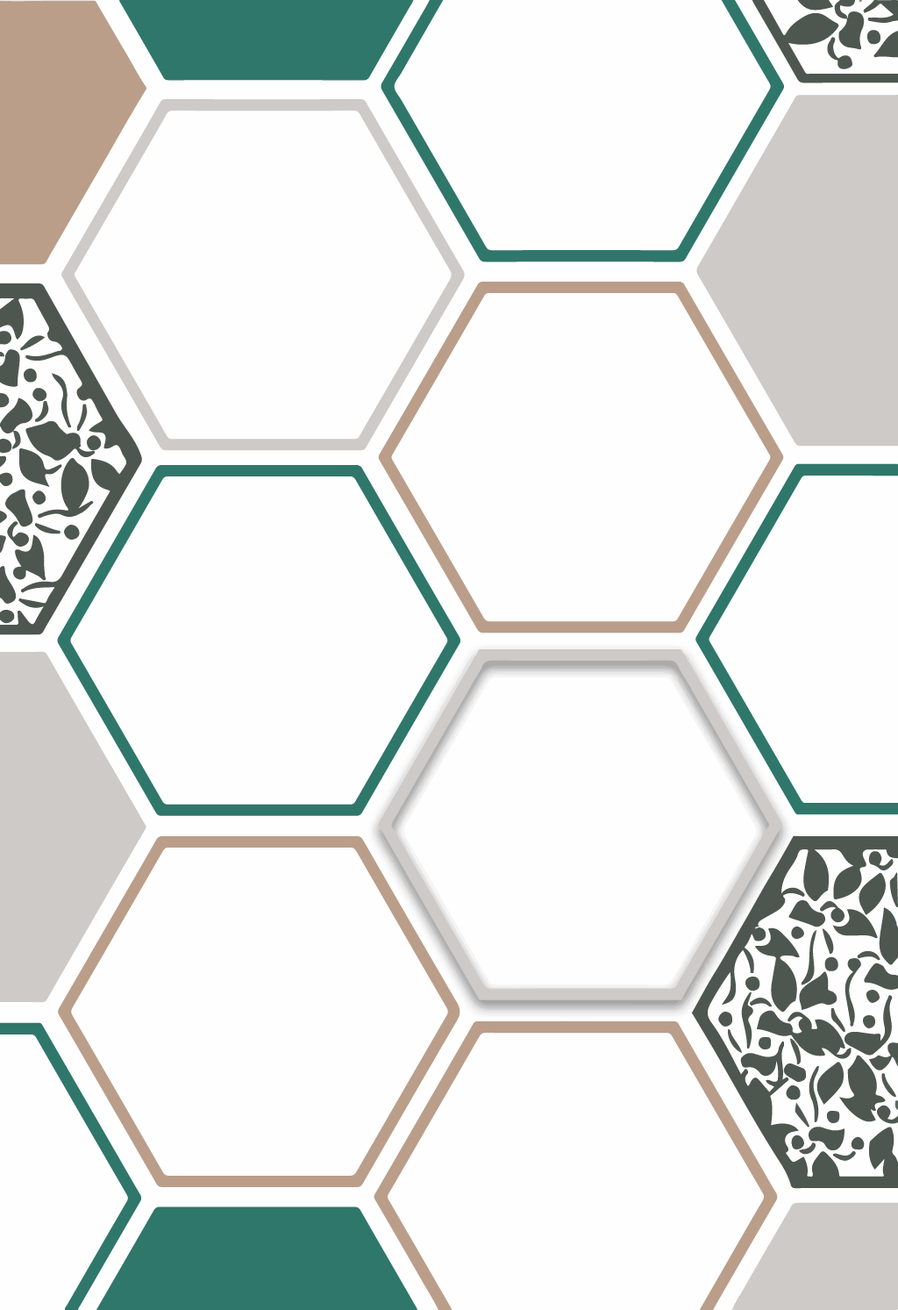
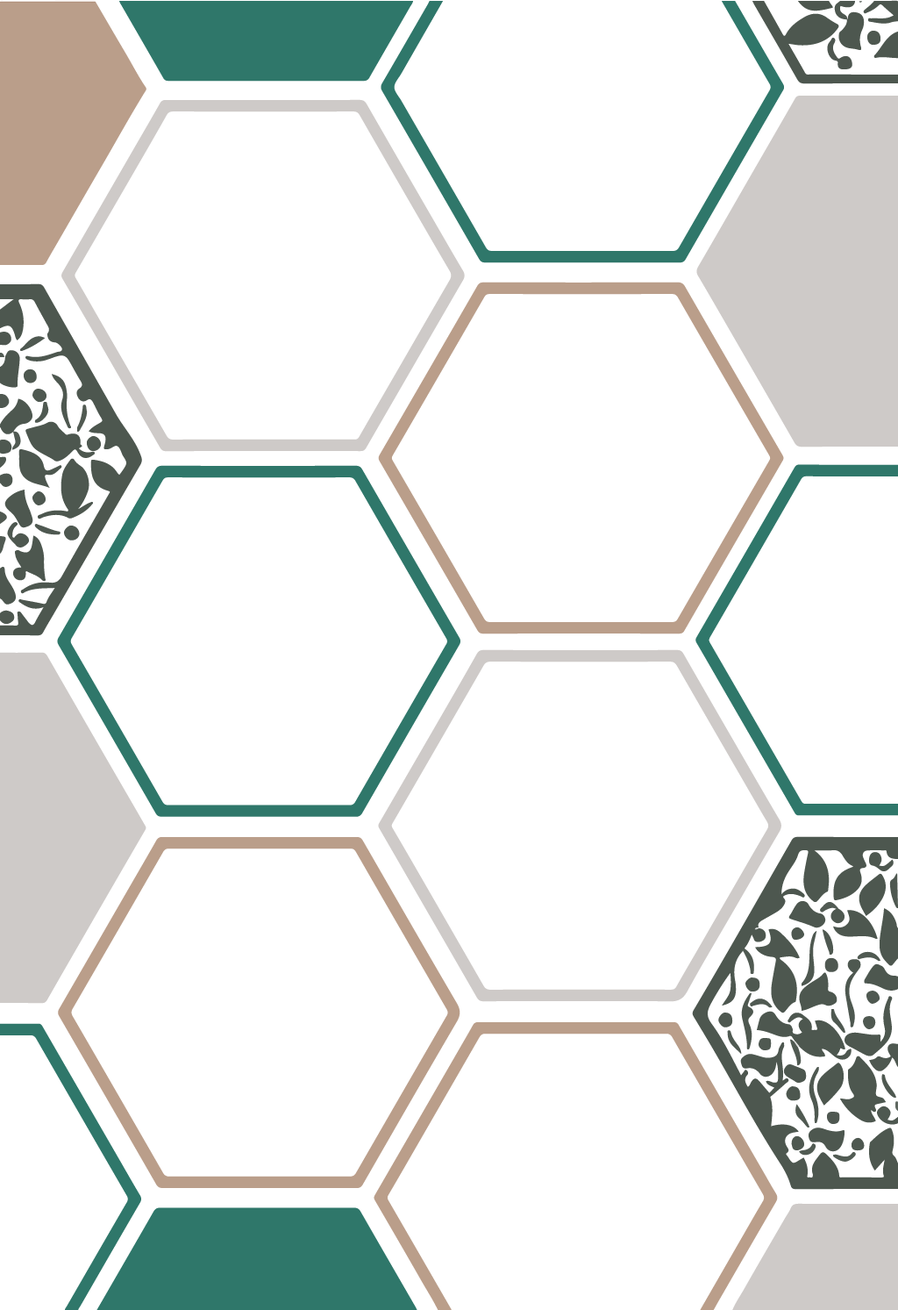
TEst

diff --git a/Assignment_13/gallery.html b/Assignment_13/gallery.html
@@ -47,7 +47,7 @@
 </div>
 
 <div class="background">
-<img src="<svg xmlns="http://www.w3.org/2000/svg" viewBox="0 0 1024.08 1493.33"><defs><style>.a{fill:#cecac8;}.b{fill:#ba9e8a;}.c{fill:#2f776a;}.d{fill:#4d574f;}.e{fill:#4e5850;}.f{fill:#4e5750;}.g{fill:#4f5851;}.h{fill:#b2927d;}.i{fill:#eae1db;}.j{fill:#515a53;}.k{fill:#505951;}.l{fill:#4f5951;}.m{fill:#f9faf9;}.n{fill:#5e6760;}.o{fill:#515b53;}.p{fill:#909691;}.q{fill:#d8dad8;}.r{fill:#b4b8b5;}.s{fill:#6c746d;}.t{fill:#838a84;}.u{fill:#505a52;}.v{fill:#525b54;}.w{fill:#dadbda;}.x{fill:#d7d9d8;}.y{fill:#515a52;}</style></defs><path class="a" d="M1024,509c-36.49,0-73-.08-109.47.06-4.17,0-6.5-1.22-8.65-5q-40.7-71-81.74-141.73c-9.24-16-18.46-32-27.88-47.84-2.3-3.89-2.21-6.83.17-10.89C816,270.19,835.2,236.55,854.55,203c17.44-30.25,35-60.46,52.32-90.76,1.78-3.11,4.25-3.17,7.16-3.17q52,0,104,0c2,0,4,0,6-.07Z" transform="translate(0 -0.75)"/><path class="a" d="M0,744c15.83,0,31.66.07,47.49-.15,3.2,0,4.87,1.29,6.3,3.77Q80.64,794.33,107.55,841q24.81,43,49.75,85.92c2.75,4.75,5.42,9.54,8.24,14.25a4,4,0,0,1,0,4.6Q143.2,984.15,121,1022.59q-23.47,40.59-46.87,81.24-10.33,17.94-20.57,35.94c-1.37,2.4-3.14,3.35-6,3.32-15.83-.15-31.66-.08-47.49-.09Z" transform="translate(0 -0.75)"/><path class="b" d="M108.89,2.25c11.28,19.31,22.49,38.67,33.89,57.91,7.77,13.13,14.68,26.76,23.27,39.4a2.67,2.67,0,0,1,.1,3.49c-17.75,28.63-34,58.16-50.91,87.25-16.48,28.27-32.76,56.64-49.11,85C61.64,283,57,290.73,52.8,298.63c-1.41,2.65-3.07,3.36-5.86,3.35-15.65-.08-31.29,0-46.94,0V3Q51.55,3,103.11,3C105,3,107.1,3.62,108.89,2.25Z" transform="translate(0 -0.75)"/><path class="c" d="M110,1494q32.59-56.41,65.11-112.87c1.89-3.3,3.87-4.55,7.75-4.54q110.24.21,220.48,0c3.78,0,5.87,1,7.81,4.41q31,54.17,62.31,108.14c.91,1.58,1.7,3.23,2.54,4.84Z" transform="translate(0 -0.75)"/><path class="c" d="M471,1c-.57,2.67-2.34,4.74-3.65,7-15.36,26.68-30.83,53.3-46.07,80-1.74,3-3.6,4-7,4q-110.73-.13-221.45,0c-2.79,0-4.82-.23-6.48-3.14C170,60.29,153.48,31.79,137,3.25c-.41-.71-.68-1.5-1-2.25Z" transform="translate(0 -0.75)"/><path class="a" d="M835,1494c3.35-8.73,8.8-16.34,13.37-24.39,15.5-27.3,31.37-54.39,47.11-81.55,2.08-3.6,4.62-7,6.21-10.78,1.9-4.54,5-5.31,9.46-5.29,37.61.12,75.23,0,112.85,0,0,39.5,0,79,.08,118.5,0,3-.6,3.59-3.58,3.58Q927.75,1493.92,835,1494Z" transform="translate(0 -0.75)"/><path class="d" d="M847,1083.08a8.21,8.21,0,0,1-.94,1.73c-8.91,9.75-10.2,21.2-7.77,33.6a47.72,47.72,0,0,1,.71,8.94c.06,10.67-4,15.73-15.61,18.56,3.65-6.18,8.49-10.92,9.49-17.57s.64-13.13,0-20a309.19,309.19,0,0,0-22.58,35.91c-4.34,8.06-5.12,14.15,1.07,22.58,12.5,17,21.8,36.13,31.55,54.88.6,1.16,1.19,2.32,2.11,4.12,1.22-1.6,2.07-2.91,3.11-4,.86-.93,1.22-3.39,3.15-1.92,1.41,1.08,2.42,3.26,1,4.82-4.56,4.92-2.47,9.43.42,14.19,2.32-1.14,2.77-3.58,3.92-5.45,3.13-5.06,5.57-5.33,9.33-.92s7.57,8.85,11.42,13.35l5.9-6.34c-3.72-2-8.16-2.78-9.76-7.17,3.36-1.35,5.84,1.21,8.75,1.53,3.21.36,4.86-.24,5-4,.28-6.5.43-12.91-1.88-20.49-.62,5.93-1.41,10.41-4.75,14-4.25,4.62-10.21,5-14.07.08s-8.55-7.1-14.78-6.07c-2.46.41-4.85-.16-5.65-2.9-.84-2.92-2.52-6,.33-8.85,3.24-3.19,7-5.19,11.7-4.08,3.54.85,7,2,10.53,3a23.55,23.55,0,0,0,8.28,1.05c6.11-.43,10.12-2.36,11-9.09.33-2.51,2.13-4.83,3.32-7.21.37-.73.92-1.47,1.93-1.18s.71,1.35.74,2.09a6.26,6.26,0,0,1-.21,3c-3.64,7.17-2.3,14.68-1.47,22.08.61,5.47,1,10.88-.07,16.41,2.41-.5,4.49-4.4,6.45-1.75,1.69,2.28-1.83,3.8-3.43,5.26-4.92,4.48-10,8.79-15,13.18-.83.72-2.3,1.15-1.82,2.64,3.48,10.78,1.85,21.71.75,32.69,13.92-4.12,25.67-2,31.4,5.9-2.65.49-5.22.78-7.68,1.45-7,1.9-9.68,8.4-6.29,14.83,1.42,2.7,4.71,5.33.07,8.44-1.39.93.72,2.61,1.46,3.76,5.72,9,5.75,9,14.67,3.5,1.13-.7,2.27-1.37,3.58-2.16,3.39,6.31,5.4,12.8,4.2,19.91-.32,1.89-.24,3,1.91,2.59,1.6-.33,4.35,1.56,4.5-2a5.75,5.75,0,0,0-.06-2c-3.08-9,2.81-15,7.46-21.29,3.27-4.39,4.72-4.11,8.53-.36,6.86,6.74,13.27,13.7,14,24,.15,2.1,1.62,1.72,2.87,1.72h45.48c1.55,0,3.37.06,2.59-2.25-2-5.88.09-11.49,1.11-18.53l-11.33,12.58c-6.7-9.64-7.51-19.93-5.65-30.71a3.25,3.25,0,0,1,.87-1.73c6.25-5.73,12.21-11.83,20.19-15.3,2.16-.94,3-.6,3.92,1.68,3,7.63,2.82,15.33.87,23.06-.67,2.66-.69,4.67,1.54,6.66,2.52,2.23,3.12,5.67,4.65,8.54v29c-38.83,0-77.66,0-116.49.09-3.43,0-4.8-.92-5.79-4.28a96.59,96.59,0,0,0-12.05-25.12c-26.2-40.38-49-82.71-73.1-124.34-8.25-14.26-16.76-28.37-25.3-42.46-1.62-2.67-2-4.6-.23-7.55,37.89-64,74.51-128.76,111.57-193.25,1.87-3.24,3.82-4.19,7.4-4.17,38,.13,76,.08,114,.08v25c-5.92-.38-12-.56-12.9-8.51-.25-2.09-1.9-1.45-3.08-1.46q-8.74-.09-17.49,0c-5.8,0-8.27,3.81-6,9.11.65,1.53,1.27,3.08,2,4.55,1.89,3.62,2.16,6.11-3.14,6.54-2.73.22-3.54,2.12-2.45,5.12,3.3,9.14,1.26,16-6.22,22.16-6.06,5-13.16,7.63-20.76,9.24-2.61.55-3-.54-3.18-2.8-1-15.69,1.72-27.87,20.41-34.28a18,18,0,0,0,2.32-1.36c-6.64-2.22-9.63-7.46-12.78-12.57-2.4-3.91-5.44-6.22-10.6-5.85-7.08.51-14.22.13-22.15.13,15.93,11.36,18.7,26.82,16.34,44.07-.14,1.1.14,2.55-1.15,3.11-5,2.17-7.65,6.82-11.17,10.52-1.73,1.82-2.9,1.57-4.8.07-11.3-8.88-12-20.79-9.79-33.52,1.19-6.89,2.51-13.75,4-20.57.62-2.77.3-3.66-2.84-3.8-4.42-.2-7.23.37-8.76,5.43-2.08,6.87-6.72,12.58-10.58,18.6-5.12,8-8.43,16.57-8.24,26.84a16.25,16.25,0,0,1,11.47-6.86c5.09-.68,9,1.79,12.63,4.78,1.21,1,3,2.56,2.13,4-1.17,2.14-2.9.06-4.26-.44-5.71-2.09-11.41-3.8-17.43-1.21-1.91.82-3.91,1.44-1.5,4.08,2.18,2.38,1.09,5-.33,7.38-2.29,3.84-5.78,6.41-9.55,8.6-4.88,2.85-9.85,5.55-14.75,8.38-3.28,1.9-6.21,4.06-4.42,8.6-1.63,0-3.26-.1-4.17,2.09,1.73.23,2.9-.65,4.15-1.23,6,.81,8.71,4.22,7.93,9.87-.43,3.14-4.77,5.78-8.85,5.56-2.27-.11-3.66-1-4.36-3.23a45.52,45.52,0,0,0-2.49-5.33c-2.39,5.71-4.31,11-8.11,15.2C847.85,1080.65,847.56,1082,847,1083.08Z" transform="translate(0 -0.75)"/><path class="b" d="M798,1494l50.81-88.27c7-12.12,13.86-24.3,21.07-36.27,2-3.35,1.73-5.83-.13-9q-38-65.42-75.75-131c-9.08-15.71-18.22-31.39-27.18-47.16-1.65-2.91-3.44-4.26-7-4.26q-103.2.18-206.41,0c-3.94,0-5.57,1.84-7.23,4.72q-37.74,65.57-75.57,131.07c-9.24,16-18.43,32-27.81,47.94-1.5,2.55-1.26,4.33.15,6.75q35.69,61.56,71.19,123.22A13.66,13.66,0,0,1,515,1494H500c-5.66-11.87-12.81-22.91-19.33-34.31-17.51-30.64-35.26-61.14-53-91.65-1.24-2.12-1.38-3.69-.11-5.89q50.19-86.65,100.23-173.38c3.83-6.64,7.69-13.25,11.39-20,1.42-2.58,3.07-3.77,6.23-3.77q111.23.15,222.45,0c2.81,0,4.5.75,6,3.3q48,83.31,96.11,166.54c4.83,8.36,9.49,16.82,14.56,25,2.18,3.52,2.3,6.23.15,9.93q-32.58,55.86-64.8,112c-2.33,4-4.57,8.12-6.85,12.18Z" transform="translate(0 -0.75)"/><path class="c" d="M505,1q-23.73,41.33-47.45,82.66c-3,5.18-8,10.46-8,15.68s5.1,10.49,8.08,15.66q48.15,83.45,96.25,166.92c1.84,3.21,3.78,4.21,7.38,4.2q103-.17,205.95,0c3.67,0,5.54-1.23,7.32-4.34q51.27-89.13,102.83-178.11c1.78-3.08,2.06-5.26.18-8.48C859.22,63.86,841.14,32.41,823,1h15q27.36,47.33,54.76,94.63c1.49,2.57,1.66,4.48.1,7.19q-55.68,96.12-111.08,192.39c-1.75,3-3.7,3.9-7.06,3.9q-110.47-.15-221,0c-3.6,0-5.59-1-7.43-4.2q-55-95.63-110.34-191.09c-1.91-3.31-2-5.64-.05-9,17.29-29.61,34.37-59.33,51.5-89,.91-1.58,1.71-3.22,2.56-4.83Z" transform="translate(0 -0.75)"/><path class="d" d="M0,713c5.83,0,11.67-.15,17.5.06,2.95.11,3.78-.9,3.4-3.7a79,79,0,0,1-.71-9c0-1.12-1-2.81,1-3.33,1.56-.4,2.38.76,3.2,1.86,2,2.67,4,5.3,6,7.93a29.84,29.84,0,0,0,2.79,3.49c2.77,2.66,5,3.07,7-1.13,2.82-5.74,6.23-11.18,9.87-17.58-10.15,4-18.32,1.06-25.95-4.33-1.13-.79-3.18-1.58-2.6-3.22.72-2,2.58-.6,3.91-.36,7.69,1.41,15.4,2.74,23,4.39,2.48.53,3.77.53,4.8-2.24,2.07-5.59,6-10.21,9.43-16-12,.66-23.45-.29-34.25,4.7-1.15.53-3.15,2.65-4.23.41s1.58-2.8,3-3.78c9-6.28,19-8.43,29.85-7.14,6.46.76,10.36-1.59,13.76-7.67,17.92-32.06,36.44-63.79,54.72-95.57-.39-1.31-1.51-1.4-2.34-1.63-18.7-5.19-19.54-19.84-19.22-33.31,0-2.05,1.29-2,2.68-1.85,10.49,1.44,20.15,4.48,26.44,13.93a16,16,0,0,0,1.5,2,17.42,17.42,0,0,0,1.61,1.39c1.34-1.85,2.69-3.6,3.92-5.42,5.28-7.75,5.29-8.71.31-16.4-.09-.14-.2-.27-.28-.42-1.91-3.68-2.94-8.74-6-10.68-3.18-2-7,2.79-11.06,3.29-4.71.57-5.17.23-3.83-4.46A27.82,27.82,0,0,0,120.5,501c.14-4.12-1.24-6.87-6.16-7.27-4.21-.34-8.66.08-13-2.22,2.95-3.73,6.74-6,10.58-8.21,6.09-3.5,5.83-3.36,2.31-9.14-2.92-4.81-5.09-10.07-7.77-15-1.69-3.12-3.3-5.94-7.89-2.88-3.51,2.34-7.26.71-9.31-3-1.93-3.48-2.88-7.56,1.11-10.21,4.26-2.84,3.84-5.4,1.42-9.29-4.57-7.32-8.46-15.05-12.86-22.47-3.58-6-7-7.23-13.87-5.34s-13,5.29-20.09,5.73c-4.56.28-9,0-13.23-1.78-1.22-.52-2.73-1.24-2.51-2.75.28-2,2.25-1.3,3.26-1.07,11.49,2.67,22-1.15,32.54-4.75,2.12-.72,5.5,0,5.76-3.21.24-3-5.14-7.82-8-8-5.07-.29-8-3-8.6-7.94-.08-.66-.3-1.56,0-1.95,4-4.87.43-8.68-1.72-12.66-4.11-7.6-8.42-15.11-12.36-22.8-1.5-2.94-3.26-4.22-6.58-3.84a43,43,0,0,1-8.49,0c-4.38-.37-4.75,1.22-3.08,4.84A49.7,49.7,0,0,1,26,376c-.8,4.5-2.43,8.61-6.27,11.64-1.76-1.67-2-3.84-2.62-5.81-3.32-11.44-6.65-13-17.09-7.82V353l15.81-12H0V324c14.49,0,29,.13,43.47-.09,3.53-.06,5.23,1.2,6.91,4.16Q91,399.89,131.89,471.59c5.1,9,11.38,17.19,17.09,25.78a100.3,100.3,0,0,1,12,23.45,9.83,9.83,0,0,1-1.05,8.87q-49.35,84.72-98.55,169.54c-4,6.9-8.19,13.71-12,20.74-1.62,3-3.46,4.18-7,4.12C28.32,723.87,14.16,724,0,724Z" transform="translate(0 -0.75)"/><path class="c" d="M1024,543q-30-.12-59.94-.23c-14.83,0-29.65.08-44.48-.08-3.06,0-4.73.93-6.26,3.59q-51.78,90-103.78,179.79a5.8,5.8,0,0,0,0,6.74q52,89.84,103.83,179.76c1.18,2,2.19,3.65,5.19,3.64C953.71,916,988.86,916,1024,916v13c-37.64,0-75.29,0-112.93.2-3.29,0-4.19-1.93-5.44-4.1Q866.35,857,827,789c-10.81-18.73-21.56-37.49-32.48-56.16a5.77,5.77,0,0,1,0-6.74q55.76-96.32,111.33-192.73c1.22-2.11,2.28-3.66,5.22-3.65q56,.18,111.94.12a4.85,4.85,0,0,1,1,.19Z" transform="translate(0 -0.75)"/><path class="c" d="M74,1494c-.27-2.23,1.39-3.67,2.34-5.32q34-59,68.16-117.93c1.83-3.13,1.84-5.31,0-8.46q-51.69-89.13-103-178.44c-1.73-3-3.56-4.13-7-4-11.49.25-23,.16-34.47.2v-13c14.49,0,29,0,43.47-.22,3.34-.07,4.21,1.94,5.43,4.07q43,74.55,86.08,149.1c8.16,14.12,16.2,28.31,24.54,42.31,1.85,3.12,1.85,5.31,0,8.46q-34.25,58.89-68.18,118c-.95,1.66-2.6,3.1-2.35,5.33Z" transform="translate(0 -0.75)"/><path class="d" d="M871,1c7.1,12.58,14.28,25.12,21.23,37.78,1.68,3,2.84,2.76,4.26.14,4.76-8.85,12.44-14.5,20.91-19.34s16.88-5.46,25.24.49a95.59,95.59,0,0,0,11.42,7.13c3.08,1.6,2.5,3.16.93,5.31C944.4,47.05,929.58,52.12,912.3,51.45c-4.25-.17-8.48-1.1-13.44-1.78,6.62,11.57,12.93,22.45,19.07,33.42,1.45,2.57,3.63,1.89,5.66,1.89q50.2,0,100.41,0V95c-35.47,0-71-.09-106.42.12-4.41,0-6.45-1.37-8.62-5.21-16-28.28-32.42-56.36-48.68-84.51C859.45,4,858.76,2.47,858,1Z" transform="translate(0 -0.75)"/><path class="d" d="M1024,1092c-.77.87-1.55,1.73-2.31,2.61-6.09,7.05-4.75,8.73-12.76-.43-6.25-7.15-6.48-16.08-5.48-25,1.24-11.2,3.91-22.18,4.69-33.83,7.76,3.37,11.54,9.48,13.87,16.85.61,2,.21,4.28,2,5.84Z" transform="translate(0 -0.75)"/><path class="d" d="M0,484c3.36-6.57,8.36-11.73,13.89-16.53a22.05,22.05,0,0,0,7-12.88c8.87,1.89,15.39,11.82,16,19.1.31,3.79-3.75,8.65-9.49,9.19C21,483.49,17.87,487.29,15,492l.09-.08c-5.4,4.46-9.92,3.54-13.5-2.69-.45-.79-.36-2-1.59-2.27Z" transform="translate(0 -0.75)"/><path class="d" d="M5.8,407c3.16-7.46,4.55-8.51,9.67-7.31a9.12,9.12,0,0,1,6.9,9.57C22,419.21,19.62,429,19.92,439A1.66,1.66,0,0,1,18.85,441C14.9,442.61,3.11,439.57,0,436V418C4.27,415.56,5.5,411.52,5.8,407Z" transform="translate(0 -0.75)"/><path class="d" d="M1024,1127c-5.67,2.82-11.16,2.09-16.75-.48-6.15-2.84-12.21-5.87-19.37-5.79-3.35,0-2.25-3.61-1.49-4.85,3.21-5.22,5.9-10.82,10.14-15.34,3-3.14,5.84-.81,8.6.38,1.88.82,2.94,2.65,3.89,4.42,2.28,4.29,5.48,7,10.68,6.74,1.42-.07,2.87.59,4.3.92Z" transform="translate(0 -0.75)"/><path class="d" d="M1024,24c-2.6.42-5.33.47-7.79,1.32-7.78,2.68-15.39.64-23-.53-1.26-.2-3.36-.19-3.11-2.39.27-2.36,2.3-1.27,3.54-1.36,7.54-.53,15.29,1.3,22.58-2l3.14-1.48c-4.63-4.05-9.08-7.75-13.28-11.72-2-1.9-3.15-.73-4.52.53a38.91,38.91,0,0,1-12.19,7.59c-1.26.5-3,2-4,.47-1.19-1.71.45-2.94,1.79-4,3.54-2.87,7.14-5.69,9.9-9.38,8.09,0,16.17.1,24.26-.07,2.28,0,2.89.37,2.82,2.78C1023.86,10.46,1024,17.23,1024,24Z" transform="translate(0 -0.75)"/><path class="d" d="M1024,66c-8.28.21-16.53-2.06-24.83-.28-2.58.56-2.8-1.56-1.89-2.52C1006.05,54,1010.47,40.5,1024,36Z" transform="translate(0 -0.75)"/><path class="d" d="M0,648c3.4-2.87,5.09-2.81,5.39,2.36.3,5,2.62,9.53,5.37,13.75a56.13,56.13,0,0,1,6.15,11.32c2.46,6.72.35,10.72-6.46,12.92-2.19.7-3.63.44-5.25-1.29S2.49,682.89,0,682Z" transform="translate(0 -0.75)"/><path class="d" d="M945,1a44.72,44.72,0,0,0,2.4,3.78c.91,1.18,2,2.21,2.14,3.82C930,13.72,920,14.63,910,1Z" transform="translate(0 -0.75)"/><path class="e" d="M1024,1280c-8.23,3.9-19.42-.7-23.18-9.18-2.1-4.75,1.36-7.21,4-9,2.44-1.66,6.08-.85,8.38,1.87,3.26,3.85,3.05,5.52-1.33,12.51,5.87,1.61,6.4,1.47,12.16-3.21Z" transform="translate(0 -0.75)"/><path class="e" d="M965.93,22.08c-9-.21-13.88-4.89-14-12.8C951.84,4.63,955.77,3.59,958,1h17c-.88,7-6.94,9-16.64,5.54-1.27,4.1-.51,7.29,3.56,9.51,2.29,1.24,4.58,2.84,3.91,6.14Z" transform="translate(0 -0.75)"/><path class="e" d="M1024,1035c-1.87-.12-2.31-1.69-2.94-3a61.1,61.1,0,0,1-6-23.9c-.12-2.45.1-4.39,2.6-5.78,2.22-1.24,3-3.81,4.32-6s.83.3,1.22.59v9l0,8c0,3.32,0,6.65,0,10,.15,2.38-1,4.93.89,7.1Z" transform="translate(0 -0.75)"/><path class="e" d="M0,699c2.76-2.41,5.83-3.8,9.54-2.63,3.09,1,5.84,2.27,6.44,6.09.54,3.42-1.28,5.27-3.78,6.88-3.06,2-6.19,2.37-9.31.21A31.56,31.56,0,0,1,0,707Z" transform="translate(0 -0.75)"/><path class="e" d="M1024,1216c-2.76-3.34-2.79-8.4-6.84-10.93l-1.19-1.13a51.36,51.36,0,0,1-3-5.57c-2.17-5.65,1.2-9.77,7.11-8.86,1.29.2,2.59.33,3.89.49Z" transform="translate(0 -0.75)"/><path class="e" d="M0,502a6.92,6.92,0,0,1,5.29-.8c5.17.89,8.44,4.89,7.64,9.92-.75,4.77-4.84,5.26-8.64,5.83A6.16,6.16,0,0,1,0,516Z" transform="translate(0 -0.75)"/><path class="e" d="M0,542c8-4.55,13.63-1.72,14.11,4.08.31,3.66-.83,6.33-4.4,8s-6,.58-8.11-2.27C1.12,551.13.54,550.59,0,550Z" transform="translate(0 -0.75)"/><path class="f" d="M0,379c5.57-1.92,10.16-.39,12.05,4.08,1.71,4.05.14,7-3.35,9.16-2.74,1.7-5.8.47-8.7.76Z" transform="translate(0 -0.75)"/><path class="g" d="M0,449c2.86.09,5.64.48,7.64,2.81s3.3,5.4,1.92,8.22c-1.81,3.7-5.5,5-9.56,5Z" transform="translate(0 -0.75)"/><path class="h" d="M108.89,2.25C107.1,3.62,105,3,103.11,3Q51.55,3,0,3V2C11.29,2,22.58,2,33.87,2l74.2-.2A2,2,0,0,1,108.89,2.25Z" transform="translate(0 -0.75)"/><path class="i" d="M108.07,1.8,33.87,2C22.58,2,11.29,2,0,2c.9-2.07,2.7-.94,4-.94Q56,.94,108,1C108,1.27,108.05,1.53,108.07,1.8Z" transform="translate(0 -0.75)"/><path class="j" d="M0,611c7.36.9,7.53,1,5,8-1.49,4.07-1.63,8.73-5,12Z" transform="translate(0 -0.75)"/><path class="k" d="M0,583a27.86,27.86,0,0,1,4,1.86c4.71,3.16,4.79,5.64.39,8.94C3,594.89,1.48,595.94,0,597Z" transform="translate(0 -0.75)"/><path class="l" d="M0,521c2.27.48,5.71-1.4,6.63,1.15s-1,5.43-2.91,7.6A34.09,34.09,0,0,1,0,533Z" transform="translate(0 -0.75)"/><path class="m" d="M5.8,407c-.3,4.53-1.53,8.57-5.8,11V407l4.84-.06Z" transform="translate(0 -0.75)"/><path class="n" d="M1024,1266c-3.5-2.25-3.07-5.79-2.79-9.12.14-1.68,1.45-1.86,2.79-.88Z" transform="translate(0 -0.75)"/><path class="o" d="M4.84,406.94,0,407v-5C3.24,402.06,4.21,404.33,4.84,406.94Z" transform="translate(0 -0.75)"/><path class="p" d="M1023.11,1023.9c0-3.32,0-6.65,0-10l.87.07v10Z" transform="translate(0 -0.75)"/><path class="q" d="M1023.16,1006v-9a3.94,3.94,0,0,1,.84,0v9A3.39,3.39,0,0,0,1023.16,1006Z" transform="translate(0 -0.75)"/><path class="r" d="M1023.16,1006a3.39,3.39,0,0,1,.84,0v8l-.87-.07Z" transform="translate(0 -0.75)"/><path class="s" d="M1023.11,1023.9l.89.1v7C1022.15,1028.83,1023.26,1026.28,1023.11,1023.9Z" transform="translate(0 -0.75)"/><path class="t" d="M983,1c-.61.62-.69,1.91-1.9,1.78-1-.1-1.09-1-1.1-1.78Z" transform="translate(0 -0.75)"/><path class="b" d="M662.29,722c-37,0-74,0-111,.08-3.48,0-5.25-1.15-7-4.11Q488.82,621.71,433,525.62c-1.54-2.65-1.6-4.49,0-7.18q55.8-96.09,111.33-192.35c1.87-3.24,3.88-4.17,7.45-4.17q110.47.16,221,0c4.25,0,6.36,1.34,8.47,5Q836.53,423,892.25,518.81c1.35,2.32,1.41,4,0,6.32q-56.16,96.75-112.09,193.65c-1.66,2.88-3.61,3.26-6.44,3.26Q718,722,662.29,722Zm.42-387c-34.66,0-69.31,0-104-.07-3.19,0-5,.83-6.7,3.73q-52,90.2-104.32,180.22c-1.37,2.35-1.29,4,0,6.32Q499.93,615,551.85,705c1.74,3,3.54,4.1,7,4.09q103.71-.14,207.42,0c3.19,0,5-.83,6.71-3.73q52-90.2,104.32-180.22c1.36-2.35,1.29-4,0-6.32Q825.09,429,773.17,339c-1.9-3.3-4-4.09-7.5-4.08C731.35,335.05,697,335,662.71,335Z" transform="translate(0 -0.75)"/><path class="a" d="M661.48,1141c-36.66,0-73.32-.07-110,.11-3.93,0-6-1.39-7.81-4.62q-33.08-57.51-66.34-114.92-22.47-38.88-44.91-77.76a4.8,4.8,0,0,1,0-5.49q37.71-64.92,75.31-129.91,18.1-31.3,36-62.78c1.83-3.23,3.85-4.64,7.79-4.63q110.24.19,220.46,0c3.63,0,5.55,1.14,7.38,4.34q29.48,51.53,59.31,102.86c16.57,28.64,33.06,57.34,49.88,85.83,3,5.08,3,8.9,0,14-17.21,29.23-34.07,58.68-51.06,88-18,31.08-36.48,61.9-53.7,93.4-5.08,9.3-10.68,12-20.81,11.78C729.15,1140.54,695.31,1141,661.48,1141Zm.37-13c34.33,0,68.66,0,103,.07,3.18,0,5-.76,6.7-3.72,7-12.49,14.26-24.8,21.41-37.19q23.56-40.83,47.12-81.67c11.48-19.87,22.91-39.78,34.57-59.54,2.15-3.66,2-6.5-.15-10-6.1-10.1-11.92-20.38-17.83-30.6q-42.35-73.2-84.58-146.46c-2-3.5-4.15-4.87-8.21-4.86q-102.24.18-204.48,0c-4.14,0-6.37,1.47-8.27,4.8C542.48,773.91,533.71,789,525,804.13q-38.69,67-77.41,133.9a5.12,5.12,0,0,0,0,5.92q13.9,23.65,27.59,47.44,38,65.89,76,131.85c1.9,3.3,4.09,4.86,8.25,4.83C593.52,1127.86,627.68,1128,661.85,1128Z" transform="translate(0 -0.75)"/><path class="a" d="M300,114.05c36.49,0,73,.06,109.47-.08,4.14,0,6.51,1.18,8.66,4.93q40.69,71,81.74,141.73c9.24,16,18.45,32,27.88,47.83,2.33,3.9,2.35,7.05,0,11Q494.29,377,461.08,434.75q-21.84,37.78-43.67,75.58A6.45,6.45,0,0,1,411,514q-111-.09-221.94,0c-3.48,0-5.1-1.6-6.58-4.17q-15-25.92-30-51.82-21.56-37.4-43-74.8-19.09-33-38.36-66c-1.46-2.51-1.13-4.58.25-7q40.85-70.59,81.6-141.23c9.9-17.13,19.88-34.21,29.62-51.44,1.83-3.24,4.21-3.64,7.4-3.63Q245,114.1,300,114.05ZM299.78,501q51.75,0,103.49,0c2.54,0,4.64,0,6.24-2.82,14.53-25.41,29.25-50.71,43.89-76,19.72-34.12,39.37-68.29,59.22-102.34,2.38-4.09,2.48-7.33,0-11.44-13.09-22.2-26-44.53-38.87-66.84Q442,186.42,410.28,131.25c-1.85-3.24-3.82-4.28-7.41-4.27q-102.74.13-205.47,0c-3.62,0-5.75,1.06-7.53,4.22q-13.83,24.57-28,48.94-37.73,65.2-75.55,130.35c-1.24,2.15-1.6,4-.16,6.43C95,332,103.52,347.22,112.25,362.35Q151,429.54,189.84,496.7c1.77,3.07,3.77,4.36,7.46,4.34C231.46,500.89,265.62,501,299.78,501Z" transform="translate(0 -0.75)"/><path class="c" d="M295,930.6c-36.65,0-73.31,0-110,.08-3.55,0-5.63-.86-7.5-4.11Q122.4,830.72,66.94,735.06c-1.83-3.17-1.78-5.4,0-8.53q55.29-95.46,110.31-191.09c1.9-3.31,3.9-4.51,7.77-4.5q110.22.19,220.44,0c3.92,0,5.82,1.3,7.69,4.55q55,95.63,110.34,191.08c1.82,3.14,1.86,5.32,0,8.47q-55.32,95.46-110.33,191.08c-1.89,3.28-3.84,4.61-7.75,4.59C368.64,930.53,331.82,930.6,295,930.6ZM295.24,544c-34.49,0-69,.05-103.46-.09-3.32,0-5,1.07-6.6,3.84q-51.54,89.55-103.3,179c-1.71,3-1.79,5,0,8.07q51.81,89.38,103.32,178.95c1.61,2.8,3.34,3.91,6.64,3.9q103.47-.15,206.92,0c3.31,0,5-1.11,6.6-3.92Q457,824,508.92,734.39c1.53-2.64,1.5-4.54,0-7.19q-51.79-89.4-103.33-179c-1.8-3.12-3.69-4.32-7.36-4.31C363.88,544.1,329.56,544,295.24,544Z" transform="translate(0 -0.75)"/><path class="b" d="M296,1353.85c-36.66,0-73.32-.06-110,.08-3.79,0-6-1-7.92-4.44q-55.17-95.9-110.64-191.61c-1.79-3.1-1.44-5.36.23-8.23q39.56-68.28,79-136.65c10.58-18.31,21.24-36.57,31.68-55,1.72-3,3.71-4,7.13-4q110.48.13,221,0c3.7,0,5.6,1.32,7.4,4.43,35.46,61.61,70.86,123.26,106.79,184.6,4.72,8.06,4.74,13.58-.05,21.75-36,61.47-71.47,123.3-107,185.07-1.73,3-3.67,4.08-7.1,4.07C369.65,1353.8,332.82,1353.85,296,1353.85Zm.08-13c34.17,0,68.33-.06,102.5.07,3.57,0,5.68-.91,7.54-4.14q51.57-89.62,103.41-179.08c1.67-2.88,1.43-5-.17-7.76Q457.55,1060.45,406,970.83c-1.65-2.87-3.43-3.82-6.67-3.82q-103.24.15-206.49,0c-3.41,0-5.26,1-7,4.06q-51.3,89.2-103,178.2c-2.06,3.55-1.78,6.1.21,9.53q51.48,88.82,102.64,177.81c1.83,3.19,3.75,4.32,7.39,4.31C227.42,1340.79,261.75,1340.85,296.08,1340.85Z" transform="translate(0 -0.75)"/><path class="d" d="M907,1187c-1.14-1.63-2.31-3.24-3.41-4.89-.92-1.37-1.79-2-3.67-1.34-5.33,1.9-10.51.49-15.58-1.33-6.87-2.47-13.65-5.27-21.23-5.6,1.13-4.36,2.07-8.4,3.23-12.38,1.36-4.66,6.82-8.3,11.56-8.57,3.29-.19,4.91,1.59,6.35,3.89,3.47,5.59,7.71,9.91,14.8,10.58,2.82.26,3.75,2.79,4.65,5.28.65,1.83-1.17,4.51,1.9,5.53a9.09,9.09,0,0,0,9.29-1.6c-5.16-5.79-5.93-11.32.92-15.2-5.15-4.33-9-1-13.14,2-1,.71-2,2.72-3.56,1.46s.18-2.71.76-3.9c3.41-7,9.84-8.69,15.74-4.06,5.18,4.05,11.11,7.55,9.82,15.93-.32,2.06,2.9.86,4.48,1.16,1.83.35,2.47-.82,2-2.36-.73-2.71-1.69-5.35-2.55-8,12.38-4.17,29.4,12.12,34.35,31.85-2.09,1.6-3.52-1.13-5.58-.84a16.09,16.09,0,0,1-4.61,8c5.07.94,9,1.08,11.57-3.63a7.74,7.74,0,0,1,5.26-3.5,10,10,0,0,1-12.61,11.67c-4-1.16-7-3.79-10-6.41s-6.06-5.1-10.64-5.48c-.12,3.5,4.14,5.07,3.36,8.61C928.22,1206,919,1200.61,911,1192Z" transform="translate(0 -0.75)"/><path class="d" d="M861.36,1079.52c18.69-.14,20-6.33,15.16-20.11,5.66-1.56,9.93.38,14.17,4.38,8.54,8.06,16.33,16.54,21,27.65a4.92,4.92,0,0,1-4.74-.08c-5.33-2.47-10.79-1-16.22-.46-2.16.23-2.1,1.3-.88,2.59a27.74,27.74,0,0,0,2.73,2.18c14,11.29,18.19,26,15.09,43.27-.19,1.07-.13,2.62-1.33,3.07-5.38,2-7.91,7-11.5,10.79-1.49,1.6-2.46,1.67-4.34.19-11-8.71-12.18-20.35-10.12-33,1.29-7.87,2.74-15.71,4.24-23.55.68-3.55.51-5.58-4.16-6-6.88-.59-13.31-3-17.86-8.76A15.71,15.71,0,0,1,861.36,1079.52Z" transform="translate(0 -0.75)"/><path class="d" d="M1010,1256c-3.72.85-6.78,1.59-9.86,2.23-2.31.49-3.43,1.3-2.44,4,.48,1.33,2,3.34.43,4.5-1.83,1.34-3.12-1.16-5.09-1.83.13,5.1,4.37,8.27,5.33,12.69-6.37,3-12.36,1.61-18-1.89A64.68,64.68,0,0,1,958,1252.08c4.46,0,8.27,1.89,12.23.17,3.42-1.48,5.22-2.3,2.21-6.5-5.35-7.5-5.46-16.56-5.4-25.44a2.31,2.31,0,0,1,.84-1.67c4.65-3,6.86-7.55,8.44-12.57.75-2.4,2.6-3,4.11-1.38,7.92,8.28,16.52,16.17,18.66,28.28.09.49.12,1,.23,1.48.93,4.37-1.12,8.77-.56,12.8.59,4.22,7.37,2.15,9.5,6C1008.66,1254,1009.16,1254.66,1010,1256Z" transform="translate(0 -0.75)"/><path class="d" d="M1004,1187.57c5.53-5.54,6.06-11.57,4.67-17.46-2.67-11.29-.66-21.73,4.19-31.91.51-1.08.33-3,2.2-2.68a2.4,2.4,0,0,1,1.82,3.48c-4.91,10.15-.87,20.24-.11,30.35a25.13,25.13,0,0,1-5.31,17.75c-4.42,5.71-10.05,10.18-15.46,14.82-2.53,2.17-6.1,1.71-8.94.31-6.1-3-11.9-6.61-18-9.57-3.92-1.9-6.57-4.9-5.68-8.84s4.84-6.1,9.06-6.67,8.28.49,12.39,1c5.61.71,11.18,1.84,16.86,1.1,1.76-.23,2.44.29,2.35,2S1004,1184.87,1004,1187.57Z" transform="translate(0 -0.75)"/><path class="d" d="M914,1151.89c.24-3.43-.77-6.19-1.64-9.05-1.75-5.79-.72-11.12,3.59-15.67a56,56,0,0,1,10.62-8.18c4.17-2.7,8.8-4.87,11.92-8.89,2.29-3,3.05-1.1,3.88.9,2.11,5,2,10.39,1.77,15.7-.09,2,0,3.09,2.52,3.67,5.32,1.21,8.42,6.19,7.27,10.65-.8,3.11-8.36,6.45-12,4.54-4-2.08-7.33-1-10.94.3C925.54,1147.78,920.45,1150.7,914,1151.89Z" transform="translate(0 -0.75)"/><path class="d" d="M987.54,1043.67c-2-3.83-4.12-7.24-5.74-10.85-3.62-8.1-2.39-15.5,3.7-22.07,4.88-5.28,10.87-9.25,16.38-13.78,2-1.65,3.08-1.26,4.63,1.47,5.34,9.41,3.86,18.17-1.24,26.87A56.56,56.56,0,0,1,987.54,1043.67Z" transform="translate(0 -0.75)"/><path class="d" d="M939.63,1259.6c-1.9-3.47-3.85-6.56-5.34-9.87-4.31-9.53-2.94-17.7,4.7-24.93,4.8-4.54,10.28-8.37,15.4-12.58,1.56-1.28,2.45-.88,3.58.63,5.22,7,5.4,20.07,0,27.2A141.3,141.3,0,0,1,939.63,1259.6Z" transform="translate(0 -0.75)"/><path class="d" d="M966.26,1037.38c15-1.09,28.54,11.82,34.21,32.34-.48.09-1.08.4-1.43.23-9.32-4.62-19.22-2.81-29-2.63-7.94.15-15-1.47-19-9.2a18.76,18.76,0,0,1-.79-2.33c6.07,2.06,11.44,2.16,16-2.61C971.25,1047.91,967.5,1042.65,966.26,1037.38Z" transform="translate(0 -0.75)"/><path class="d" d="M962.9,1292.52c-.68,4.81-1.4,10.28-4.75,14.9-4.66,6.44-13,6.13-16.73-.89-2.47-4.71-6.16-5.67-10.78-5.07-3.13.41-6.13.63-7.54-3s-1.67-6.91,1.78-9.91c4.21-3.68,8.89-3.76,13.59-2.15,7.33,2.51,14.52,4.56,22.32,2C962.91,1287.7,963.09,1288.21,962.9,1292.52Z" transform="translate(0 -0.75)"/><path class="d" d="M941,1048.11c.15,5.52-7.47,10.68-12.53,8.42-8.54-3.8-17.52-6.21-26.31-9.19-2.64-.9-3.08-1.65-1.41-4,3.05-4.34,4.9-9.45,8.43-13.52,3.39-3.9,10-3.63,12.54.93,3.1,5.55,7,9.33,13.59,10.52C938.86,1041.89,940.65,1045,941,1048.11Z" transform="translate(0 -0.75)"/><path class="e" d="M973.25,1108.62c-6.38-4.2-8.06-9.36-4.83-13.53,1.56-2,8-2.48,10.51-.77s3.12,6.46,1.14,9.15-4,5.34-5.82,8.09c-6.27,9.3-7.71,19.17-3.8,29.86,2.61,7.16,5.29,14.4,3.68,22.3a6.76,6.76,0,0,1-.21,1.47c-.94,1.94-.25,5.52-3.1,5.37-1.65-.09-.72-3.42-1.05-5.26-1.75-9.81-3.42-19.63-5.11-29.44C962.86,1125.45,964,1115.93,973.25,1108.62Z" transform="translate(0 -0.75)"/><path class="e" d="M856.93,1132c-1.39,4.24-2.61,8.12-3.94,12-.58,1.68-.84,2.7,1.27,3.83,5.44,2.89,6,6.16,1.62,10.32-3.06,2.93-3.37,5.18-1.45,9.25,4,8.49,3,17.52.36,26.35-.27.9-.51,2.16-1.75,2.09-1.46-.09-1-1.44-1-2.32-.14-11.08-3-21.71-5.4-32.4-2.53-11.09,2.23-20.12,8.37-28.7C855.16,1132.14,855.85,1132.22,856.93,1132Z" transform="translate(0 -0.75)"/><path class="d" d="M919,1225c.34,3.9-.76,6.25-3.45,7.48s-5.37,2.4-8.38.2-6.62-3.78-9.66-6-4.63-5.28-2.55-9.08c1.95-3.56,4.55-5.56,8.88-3.67,3.93,1.71,8,3.1,11.93,4.84C918.83,1220.13,918.66,1223.24,919,1225Z" transform="translate(0 -0.75)"/><path class="e" d="M931.15,1061.09c-1.24,5.45-2.15,9.61-3.12,13.76-2.22,9.47-.22,18.88.37,28.31.68,10.94-3.44,17-14,20.37a3.1,3.1,0,0,1,.57-3.67c6.43-7.55,7.72-16.7,8.07-26.13.31-8.48.34-17,3.1-25.15C926.92,1066.21,927.36,1063.46,931.15,1061.09Z" transform="translate(0 -0.75)"/><path class="e" d="M1002.28,986.56c6.13,1.24,6.13,1.24,15.25-6.78,3.39,5.45-1.5,7.66-4.21,10.43s-6.33,3.83-9.82,1c-2.64-2.16-5-4.15-8.71-4.91-3.87-.79-4-5.2-3.49-8.32s2.31-6.5,6.23-6.7c4.32-.22,6.57,2.6,7.45,6.55C1005.69,981,1004.27,983.65,1002.28,986.56Z" transform="translate(0 -0.75)"/><path class="l" d="M933.65,1216.23c.35,3-1,5.72-2.41,8.24-4.29,8-4.6,16-1.68,24.5,2.42,7.06,4.32,14.34,3.49,22a62.75,62.75,0,0,1-1.43,7.3c-.17.76-.56,1.68-1.59,1.62-1.19-.07-1-1.09-1-1.86,0-1.16,0-2.32,0-3.49.14-7.27-.44-14.1-3.54-21.17-5.63-12.84-1.47-25,5.84-36.23A1.93,1.93,0,0,1,933.65,1216.23Z" transform="translate(0 -0.75)"/><path class="e" d="M1016,1203.94l1.19,1.13a26.3,26.3,0,0,1-10.4,14.42c-3.12,2.24-6.35,1.18-9-1.31a27.44,27.44,0,0,1-6.43-9.92c3.33-.44,6.55-.94,8.87-3.47a2.73,2.73,0,0,1,3.25-.48C1007.7,1206.26,1011.88,1207.15,1016,1203.94Z" transform="translate(0 -0.75)"/><path class="e" d="M835,1163.79c0,4.06-3.06,6.68-8.09,6.94-2.81.14-7.47-4.94-7.5-8.18,0-3.41,4.2-8.4,7.14-8.4C832.23,1154.14,835,1157.32,835,1163.79Z" transform="translate(0 -0.75)"/><path class="e" d="M866.16,1122.61c0,4.8-3.08,7.41-8.61,7.37-3.33,0-7.33-5-7.42-9.2,0-2.3,4.6-6.62,7.07-6.56C863.82,1114.38,866.22,1116.62,866.16,1122.61Z" transform="translate(0 -0.75)"/><path class="d" d="M912.49,1248c.12,4.64-2.28,6-8.17,6.23a7.5,7.5,0,0,1-7.6-7.57c.08-3.55,4.21-8.58,7-8.42C910.14,1238.55,911.83,1241.37,912.49,1248Z" transform="translate(0 -0.75)"/><path class="g" d="M948.17,1092c4.53,0,7.64,3.74,7.51,9-.11,4.14-3,6.66-7.71,6.75s-7.21-2.69-7.15-8C940.87,1094.74,943.5,1092,948.17,1092Z" transform="translate(0 -0.75)"/><path class="e" d="M956.26,1035.9c5.74,3.18,8,7.76,5.92,11.82-2,3.76-6.3,5.36-9.6,3.54-4.76-2.62-6.28-6.93-3.89-11A9.49,9.49,0,0,1,954,1036Z" transform="translate(0 -0.75)"/><path class="e" d="M902.75,1303.75c-.06-5.16,2.54-8.67,6-8.75,4.07-.11,8.3,4.8,8.16,9.47-.09,3.14-4.78,6.71-8.88,6.41C903.24,1310.53,903.66,1306.31,902.75,1303.75Z" transform="translate(0 -0.75)"/><path class="g" d="M957.22,1273.1c-.06,5.56-2.07,7.67-7.45,7.79-3.42.07-6.83-4.14-6.7-8.45.11-3.68,2.31-5.32,5.8-5.29C956.08,1267.21,957.26,1268.09,957.22,1273.1Z" transform="translate(0 -0.75)"/><path class="e" d="M977.84,1311c-4.78,0-6.94-2.09-6.78-6.6.12-3.52,4-7.39,7.32-7.4s6.75,4.18,6.88,8.3C985.38,1309.1,982.91,1311,977.84,1311Z" transform="translate(0 -0.75)"/><path class="l" d="M988.05,1134.07c.39-2.44,2.87-4.42,6.07-4.83,4.5-.59,8.92,4.17,8.78,8.84-.06,2.29-5.18,5.78-8.38,5.72C991.71,1143.75,988.06,1138.94,988.05,1134.07Z" transform="translate(0 -0.75)"/><path class="l" d="M879,1189.71c0,5.56-1.61,7.16-7.23,7.2-3.26,0-7.18-3.94-6.61-7.32s1.86-6.49,6.15-6.43C879,1183.26,879,1183.32,879,1189.71Z" transform="translate(0 -0.75)"/><path class="l" d="M938,1059.39c9.35,3.63,12.63,18.33,11.88,25.09-.17,1.52-1,3.13-2.55,3.36-2.1.32-1.33-1.87-1.73-2.9A136.86,136.86,0,0,1,938,1059.39Z" transform="translate(0 -0.75)"/><path class="l" d="M998,1165.11a7.32,7.32,0,0,1-6.79,7.69c-3.35.24-7.31-4.76-7-9.31.23-3.23,2.9-4.91,5.62-5.2C995,1157.76,997.94,1160.52,998,1165.11Z" transform="translate(0 -0.75)"/><path class="e" d="M906.59,1070.91c-2.55-.37-3.79-3.24-4-6.51a6.86,6.86,0,0,1,6.79-7.4c3,.1,7.51,5,7.44,8.11C916.79,1067.91,912,1071.09,906.59,1070.91Z" transform="translate(0 -0.75)"/><path class="u" d="M909.78,1193.29a44.88,44.88,0,0,1,3.24,15c0,1.72-.09,3.37-1.36,4.63-1,1-2.57,2-2.6-.46-.13-8.64-5-15.77-7.14-23.77-.34-1.26-.56-2.56-.86-4,2.49.17,3.5,2.11,5.07,3.19Z" transform="translate(0 -0.75)"/><path class="u" d="M847,1083.08c.54-1.13.83-2.43,2.11-3-.48,1.56.86,1.9,1.71,2.6,7.7,6.34,9.59,14.81,8.65,24.22-.12,1.23.18,3.4-2.24,3.08-2.08-.26-1.16-2.06-1.32-3.19C854.74,1098.18,851.38,1090.45,847,1083.08Z" transform="translate(0 -0.75)"/><path class="l" d="M963.84,1176.61c-2.11.74-2.72-.72-3.55-1.63-2.88-3.21-5.37-6.88-8.64-9.61-4.65-3.91-3.57-8.86-3.63-13.72,0-.89.19-1.66,1.33-1.61.64,0,1.48-.07,1.63.75,1.54,8.89,9.1,14.57,12.06,22.69A30.59,30.59,0,0,1,963.84,1176.61Z" transform="translate(0 -0.75)"/><path class="u" d="M1003.83,1094.84c-1.06.05-2,.38-2.32.07-6.25-5.21-13.17-4.19-20.23-2.4-1,.26-2.41,1.1-3.09-.28s.23-2.37,1.32-3.36C987.25,1081.88,999.44,1084.63,1003.83,1094.84Z" transform="translate(0 -0.75)"/><path class="u" d="M908.59,1258.57a150.68,150.68,0,0,1,14.35,25.86c-2,1-2.58-.25-3.3-1-2.44-2.71-4.52-5.85-7.29-8.14C907,1270.8,906.07,1265.54,908.59,1258.57Z" transform="translate(0 -0.75)"/><path class="o" d="M963.82,1323.87c-5.11-.44-9.06-2.88-12.94-5.44a2.16,2.16,0,0,1-.67-1.67c0-.94,1-.66,1.55-.75,2-.33,3.85.6,5.77,1.08,5,1.24,10.11,2.57,14-2.62.83-1.1,2-1.93,3.35-.66s.94,2.18-.06,3.4A17.81,17.81,0,0,1,963.82,1323.87Z" transform="translate(0 -0.75)"/><path class="u" d="M880.45,1147.63c-1.41.51-2.77.77-3.62,0-5.42-5-11.37-3.18-17.39-1.65-1.18.3-2.72,1.94-3.85-.29-1-2.06.76-2.61,1.81-3.48C865.42,1135.57,873.63,1137.41,880.45,1147.63Z" transform="translate(0 -0.75)"/><path class="u" d="M845.11,1200.89c-6.51-6.69-15.34-11.83-15.2-22.89,0-1.19-.74-3,.78-3.46,1.81-.52,2.43,1.15,2.79,2.68,1.14,4.79,3.92,8.68,6.77,12.56C842.67,1193.06,845.07,1196.37,845.11,1200.89Z" transform="translate(0 -0.75)"/><path class="l" d="M1021.8,1250.62c-.67.15-1.21.46-1.61.33-7.26-2.45-16.08-17.67-14.39-24.78.17-.73,0-1.9,1.17-1.72.71.11,1.87.74,1.93,1.23,1.06,9,7.89,14.79,11.83,22.17A24.63,24.63,0,0,1,1021.8,1250.62Z" transform="translate(0 -0.75)"/><path class="v" d="M956.26,1035.9,954,1036c-4.62-2.74-8.7-.75-12.84,1.33-1.58.8-3.35,3.11-5,1.58-2.32-2.17.42-3.79,1.69-5.29C944.57,1025.63,948.51,1026.15,956.26,1035.9Z" transform="translate(0 -0.75)"/><path class="o" d="M911.4,1312.46a9.91,9.91,0,0,1,4.83-1.47c4-.46,7.31-2,9.43-5.59.53-.92.8-2.4,2.39-1.78a2.93,2.93,0,0,1,1.81,3.69,12.55,12.55,0,0,1-8.9,8.56C917.43,1316.76,913.75,1316.06,911.4,1312.46Z" transform="translate(0 -0.75)"/><path class="w" d="M909.78,1193.29l-3.65-5.35.85-.92,4,5Z" transform="translate(0 -0.75)"/><path class="x" d="M865,1058c-1.25.58-2.42,1.46-4.15,1.23.91-2.19,2.54-2.14,4.17-2.09C865,1057.39,865,1057.68,865,1058Z" transform="translate(0 -0.75)"/><path class="d" d="M89.93,511.3c4,3.95,8.75,5,14.14,4,1.21-.24,3-1,3.61.4.84,1.83-1.24,2.47-2.33,3.29-6.53,4.87-12.62,3.66-16.89-4-2.09-3.76-3.31-3.48-6-.82-4.46,4.42-8.88,9-15.15,11-2.08.68-3.68.7-5.52-.68A50.5,50.5,0,0,0,55,520.41C37.19,511,37.23,511,29.81,492.61c-.87-2.15-.56-3.06,1.49-3.63,3.67-1,7.33-2.05,11-3,4-1,8-1.91,11.66-4.09a8.54,8.54,0,0,1,11.73,3.53c2.14,3.94,5.74,6.38,8.83,9.39,1.64,1.6,3.12.42,4.59,0,8.22-2.14,13.06,1.7,12.51,10,0,.48-.43,1.29-.3,1.37C96.39,509.34,90.13,509.47,89.93,511.3Z" transform="translate(0 -0.75)"/><path class="d" d="M88.41,580.75c5-2.54,9.33-6,14.46-7.94.9-.35,1.92-1.3,2.7-.36,1.07,1.28-.4,1.94-1.1,2.78-5.71,6.79-13,11.26-21.13,14.5-1.63.66-3.16,1.58-5.18.51-9.68-5.12-19.49-4-29.46-.67-1.59.52-4.41,3-5.44.12s2.54-2.85,4.29-3.73c8.65-4.35,17.79-5,27.19-3.4,1,.17,2.36,1,3.07-.39.5-1-.34-1.89-.89-2.71-8-11.69-8.19-24.69-5.92-37.91,1.16-6.69,5.37-12.09,9.31-17.44,1.35-1.84,3.22-1.7,4.46.32A21.58,21.58,0,0,0,91.56,531c8.75,5.79,11.44,20,8.76,28.17A64.06,64.06,0,0,1,88.41,580.75Z" transform="translate(0 -0.75)"/><path class="d" d="M24.63,646.69c-3.05-5-6.45-9.39-7.15-15-.16-1.26-1-2.68.23-3.7a3.7,3.7,0,0,1,4.63-.17,6.41,6.41,0,0,0,1.34.66c7.48,2.81,11.16.92,12.79-6.78.76-3.56,1.12-7.21,1.7-11.15,4.56,1.93,7,5.6,8.54,9.75A46.71,46.71,0,0,1,50,637.8a121.13,121.13,0,0,0,1.44,21.35c.15.92,1,2.05-.16,2.65a2.6,2.6,0,0,1-3.14-.81c-4.49-4.73-10.64-6.6-16.28-9.35-1.32-.65-2.89-1.86-2.63,1.28.4,5-1.64,8-5.43,8.27a8.16,8.16,0,0,1-8.74-7.62c-.14-3.83,2.62-6.36,7.27-6.66C23,646.87,23.55,646.79,24.63,646.69Z" transform="translate(0 -0.75)"/><path class="d" d="M56.3,555.79c-10.56-4.43-21.66-4.07-29.21-12.59a20.76,20.76,0,0,1-4.91-12.8c-.33-5.15-.07-10.33-.25-15.49-.08-2.53.83-3.22,3.22-2.65a56.81,56.81,0,0,1,14.53,5.1,19.11,19.11,0,0,1,10.08,13.46c1.23,5.73,3.47,6.64,9.1,4.25,2.9-1.23,5.67-2.77,8.54-4.09.66-.31,1.46-1.2,2.18-.39a1.85,1.85,0,0,1-.16,2.7c-4.44,3.49-7.9,8.91-14.8,7.72-3.34-.58-3.94.83-3.14,3.9C52.38,548.33,53.93,551.42,56.3,555.79Z" transform="translate(0 -0.75)"/><path class="d" d="M27.94,558.15c-.14,8.37,2.38,15.71,5.65,22.88a83.65,83.65,0,0,1,2.76,8c2.63,7.69-2.13,10.29-8,11.86-3.85,1-5.34-2.1-6.79-4.6-2.76-4.76-4.85-9.28-9.69-13.25-9.4-7.69-6.85-12.6,2.23-19.15C17.93,561.09,22.54,559.36,27.94,558.15Z" transform="translate(0 -0.75)"/><path class="e" d="M59.07,426.42c11.19,3,15.28,7.83,16.92,19.83a28.7,28.7,0,0,1,.38,7,66.45,66.45,0,0,0,3.75,31.85c.32.84,1.73,2.13-.22,2.82-1.38.49-2.16-.42-2.68-1.58-4.4-9.82-9.76-19.39-6.09-30.88,2.37-7.42-.23-13.7-5.42-19.13C63.07,433.54,60.53,430.69,59.07,426.42Z" transform="translate(0 -0.75)"/><path class="e" d="M23,623.92c-1-.39-3.06-.56-3.93-1.68-3.45-4.38-8.37-7.67-10.22-13.27-1.26-3.8,4.58-13.26,8.48-13.71a2.38,2.38,0,0,1,2.51,1.24c.53,1.1-.3,1.84-1.1,2.48-3.41,2.7-4.6,6.38-4.67,10.56,0,1.16-.27,2.51.93,3.17,1.47.8,2-.8,2.67-1.53,1.9-1.95,3.74-3.62,6.85-3.17,4.57.65,8.76,4.69,8.39,8.46C32.6,619.21,26.83,623.84,23,623.92Z" transform="translate(0 -0.75)"/><path class="e" d="M90.32,608.47c0,4-4.2,7.37-9,7.27-4-.08-8.25-4.81-8.14-9,.08-3.09,4.76-7.76,7.72-7.7A9.46,9.46,0,0,1,90.32,608.47Z" transform="translate(0 -0.75)"/><path class="e" d="M106,514c-3.77-.05-7.13-4.84-6.9-9.84.13-2.93,4.43-7,7.35-7,4.39,0,8.58,4.6,8.53,9.29C114.9,510.46,110.65,514,106,514Z" transform="translate(0 -0.75)"/><path class="e" d="M43.43,443.15c5.27.07,9.66,3.87,9.5,8.24-.13,3.78-3.93,6.72-8.51,6.61-2.7-.07-7.27-5-7.22-7.7C37.29,446.46,40.2,443.11,43.43,443.15Z" transform="translate(0 -0.75)"/><path class="e" d="M34.32,421c4.4,0,7.33,3.39,7.33,8.58,0,4-2.84,6.69-7.08,6.77-4,.08-7.36-3.6-7.52-8.33C26.92,424.29,30.3,421,34.32,421Z" transform="translate(0 -0.75)"/><path class="l" d="M51.11,385.23c-8.31,6.12-16.34,11-25.26,14.25-.94.35-1.93.87-2.63-.13a1.88,1.88,0,0,1,.4-1.76c6.06-4.66,9.84-12.17,18.29-13.9C45.13,383,47.63,383.71,51.11,385.23Z" transform="translate(0 -0.75)"/><path class="e" d="M37.06,567.19c0-2.28,4.32-6.92,6.64-7.07,3.89-.26,8.26,4.58,8.21,9.08,0,3.37-3.94,6.61-8,6.61C41,575.81,37.1,570.93,37.06,567.19Z" transform="translate(0 -0.75)"/><path class="l" d="M61.77,609.06c-7.46-.32-14.39-2.23-20-7.48-1-1-2.56-2.31-1.52-3.82s2.44.1,3.58.42c7.79,2.23,15,6.18,23.09,7.61.82.15,1.67.33,1.67,1.44a1.65,1.65,0,0,1-1.85,1.82C65.09,609.07,63.43,609.06,61.77,609.06Z" transform="translate(0 -0.75)"/><path class="l" d="M55,467.78c.06,5.6-8.45,14.08-13.67,13.87-.4,0-1-.26-1.13-.53a2.12,2.12,0,0,1,.73-2.66c6.63-3.85,7.55-10.43,8.37-17.12.16-1.31,0-3.24,2.19-3.31s2,2,2.32,3.2C54.34,463.46,55.31,465.65,55,467.78Z" transform="translate(0 -0.75)"/><path class="y" d="M99.05,469.6c-.53,8.38-5,14.7-8.59,21.39a2.18,2.18,0,0,1-1.6.83c-.94,0-.85-.87-.83-1.47,0-1.31-.2-2.84.38-3.9,3.77-6.84,5.06-14.31,6-21.91.14-1.12-.16-3.05,1.53-3.15,1.92-.1,2.13,1.64,2.3,3.2C98.47,466.4,98.82,468.19,99.05,469.6Z" transform="translate(0 -0.75)"/><path class="j" d="M15,492c5.21-1,6.83,3.06,7.79,6.54,1.94,7-1.09,11.53-8.72,14-.29-3.94,4.46-6,3.56-10-.81-3.54-1.69-7.08-2.54-10.61Z" transform="translate(0 -0.75)"/><path class="d" d="M965.83,22.19c.34-.32.93-.62,1-1,.46-4.87,2.66-7.67,8-7.17,6.09.58,9.7,3.87,10.14,9.53a20.21,20.21,0,0,1-1.83,10.19,27.42,27.42,0,0,0-1.47,19.78c.86,3,.13,3.94-3.15,3a73.83,73.83,0,0,0-9.77-1.67c-8.67-1.3-13.74-8.72-11.64-17,.43-1.68,1.89-2.22,2.89-3.26,3.43-3.51,6.29-7.28,6-12.56Z" transform="translate(0 -0.75)"/><path class="f" d="M962.49,79c-4.84.07-7.34-1.85-7-6.57.22-3-.71-3.1-3.13-3.61-7.24-1.52-11.45-14.29-6.85-20.07.62-.78,1.15-1.63,1.82-2.35,1.09-1.17,1.11-4.26,3.69-2.84,1.85,1,1.4,3.46.54,5-3.65,6.3-1,11.39,2.57,16.52,1.35,1.94,2.08,2.57,4.51,1,6.49-4.17,11.78-1.59,12.93,5.88C972.32,76.75,969.59,78.88,962.49,79Z" transform="translate(0 -0.75)"/><path class="e" d="M989.07,42.15a7,7,0,0,1,6.6-7c5.28-.07,8.27,3.28,8.33,9.31,0,4.22-2.94,6.54-8.4,6.53C991.84,50.94,989.1,47.24,989.07,42.15Z" transform="translate(0 -0.75)"/></svg>" alt="Contact Page Graphic" title="Contact Page" width="auto"/>
+<img src="./images/backgrounds/gallery.png" alt="Contact Page Graphic" title="Contact Page" width="auto"/>
 </div>
 
 <div>
